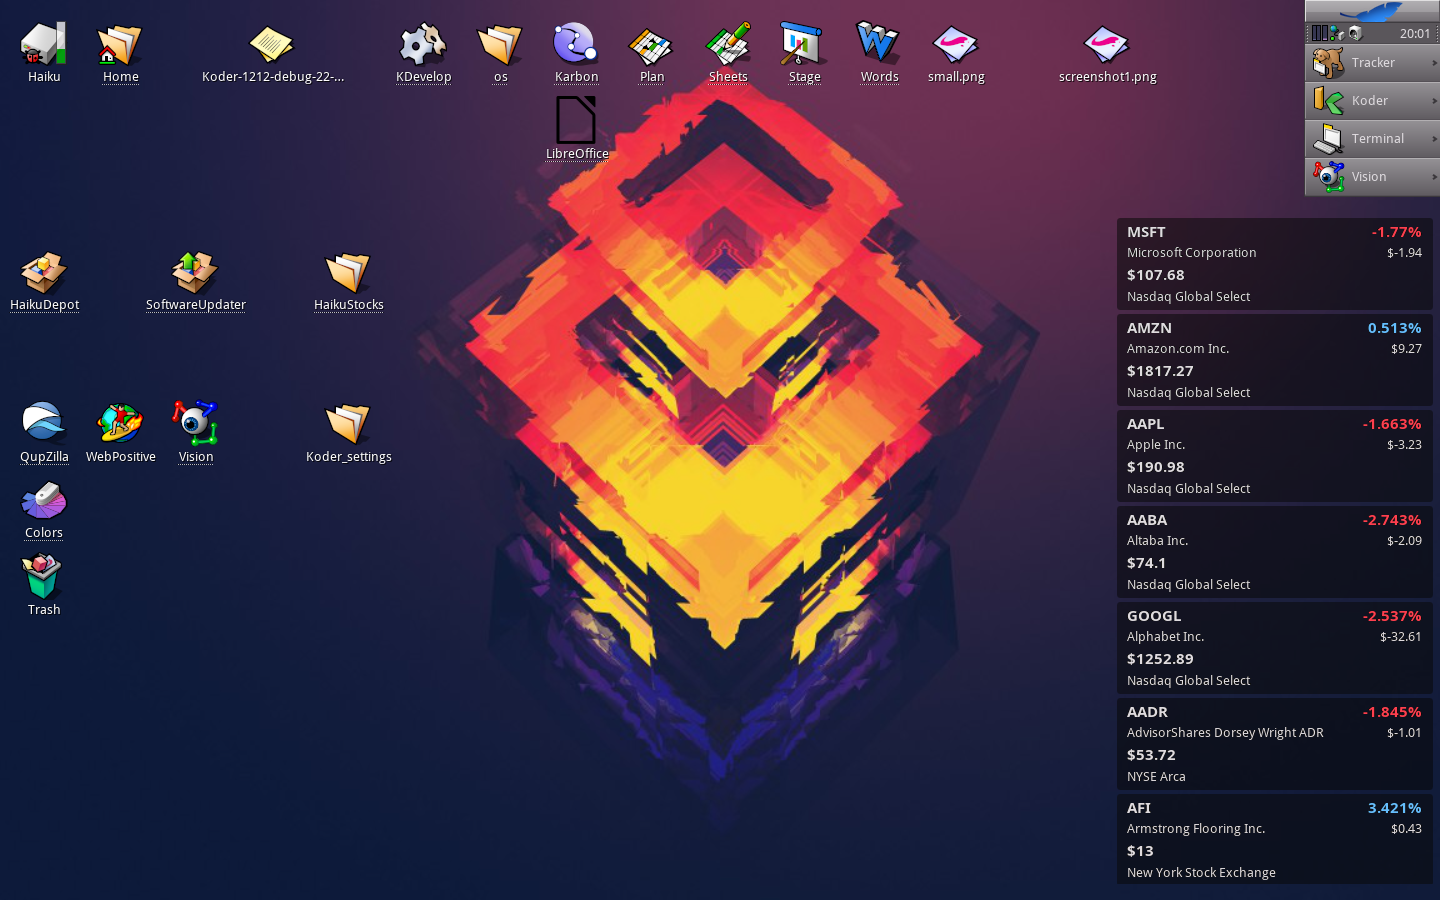
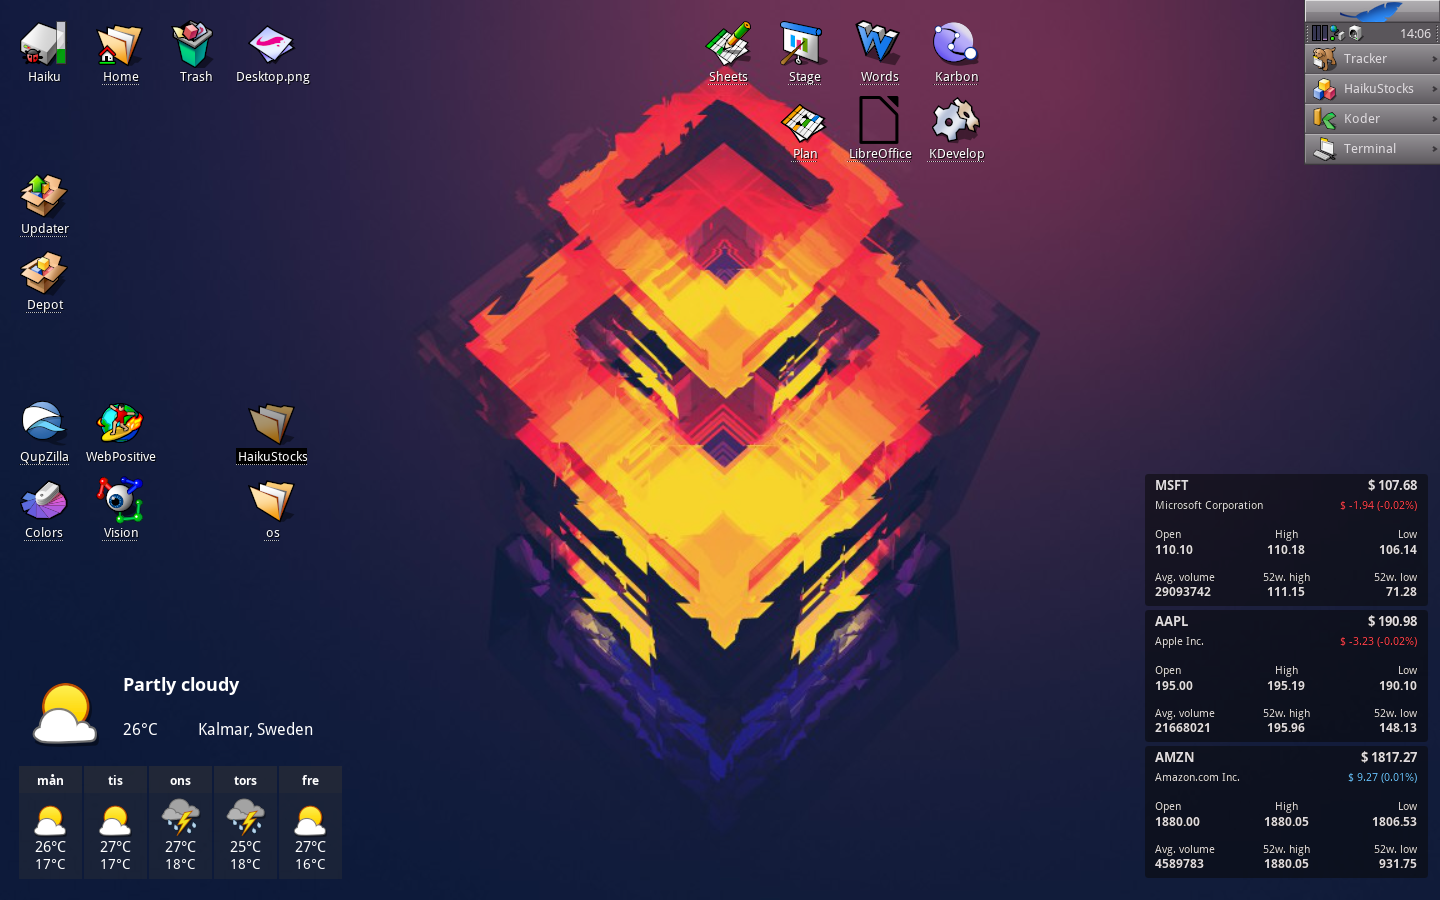
Updated Large item and added new screenshot

diff --git a/Source/ListItems/QuoteListItem.cpp b/Source/ListItems/QuoteListItem.cpp
@@ -87,11 +87,14 @@ QuoteListItem::DrawChangeDollar(BRect frame, alignment align) {
 	BFont font(be_plain_font);
 	font.SetSize(13);
 
-	QuoteFormatter formatter(fQuote);
+	std::ostringstream change;
+	change << "$ " << fQuote->change;
+	
+	const char *str = change.str().c_str();
 	
 	DrawItemSettings settings = { frame, &font };
 	settings.align = align;
-	fDrawer->DrawString(formatter.LatestPrice(), settings);
+	fDrawer->DrawString(str, settings);
 }
 
 void
@@ -205,32 +208,31 @@ void
 QuoteListItem::DrawLargeItem( BRect frame) {
 	
 	QuoteFormatter formatter(fQuote);
-
-	BFont font(be_bold_font);
-	font.SetSize(16);
-	
 	BRect rect = frame.InsetBySelf(0,2);
 	rect.bottom = frame.top + frame.Height() / 7.0;
-
-	DrawSymbol(rect, B_ALIGN_CENTER);
-	rect.OffsetBySelf(0, rect.Height());
 	
-	DrawCompanyName(rect, B_ALIGN_CENTER);
-	rect.OffsetBySelf(0, rect.Height());
-	
-	DrawItemSettings settings = { rect, &font, NULL, B_ALIGN_CENTER };
+	BFont font(be_bold_font);
+	font.SetSize(13);
+		
+	//Row 1
+	DrawItemSettings settings = { rect, &font, NULL, B_ALIGN_LEFT };
+	DrawText(fQuote->symbol.String(), settings);
+	settings.align = B_ALIGN_RIGHT;
 	DrawText(formatter.LatestPrice(), settings);
 	rect.OffsetBySelf(0, fDrawer->Height(settings));
+	
+	//Row 2
+	font = be_plain_font;
+	font.SetSize(11);
+	settings = { rect, &font, NULL, B_ALIGN_LEFT };
+	DrawText(fQuote->companyName.String(), settings);
 
 	rgb_color changeColor = formatter.ChangeColor();
-	
-	font.SetSize(12);
-	settings = { frame, &font, &changeColor, B_ALIGN_CENTER };
+	settings = { rect, &font, &changeColor, B_ALIGN_RIGHT };
 	DrawText(formatter.ChangeString(), settings);
-
-	rect.OffsetBySelf(0, fDrawer->Height(settings) + 10 );
-
-	font.SetSize(10);	
+	rect.OffsetBySelf(0, fDrawer->Height(settings) * 2);
+	
+	//Row 3
 	settings = { rect, &font, NULL, B_ALIGN_LEFT };
 	
 	DrawText("Open", settings);
@@ -241,17 +243,47 @@ QuoteListItem::DrawLargeItem( BRect frame) {
 	settings.align = B_ALIGN_RIGHT;
 	DrawText("Low", settings);
 	
-	rect.OffsetBy(0, fDrawer->Height(settings));
-	font.SetSize(10.0);
-	
+	rect.OffsetBy(0, fDrawer->Height(settings));	
+	font = be_bold_font;
+	font.SetSize(12);
+
 	settings = { rect, &font, NULL };	
-	DrawText("106.54", settings);
+	DrawText(formatter.ToString(fQuote->open), settings);
 
 	settings.align = B_ALIGN_CENTER;
-	DrawText("108.5", settings);
+	DrawText(formatter.ToString(fQuote->high), settings);
 	
 	settings.align = B_ALIGN_RIGHT;
-	DrawText("103.1", settings);
+	DrawText(formatter.ToString(fQuote->low), settings);
+	
+	rect.OffsetBySelf(0, fDrawer->Height(settings) * 1.5);
+	
+	//row4
+	font = be_plain_font;
+	font.SetSize(11);
+	settings = { rect, &font, NULL, B_ALIGN_LEFT };
+	
+	DrawText("Avg. volume", settings);
+	
+	settings.align = B_ALIGN_CENTER;	
+	DrawText("52w. high", settings);
+	
+	settings.align = B_ALIGN_RIGHT;
+	DrawText("52w. low", settings);
+	
+	rect.OffsetBy(0, fDrawer->Height(settings));	
+
+	font = be_bold_font;
+	font.SetSize(12);
+
+	settings = { rect, &font, NULL };	
+	DrawText(formatter.ToString(int32(fQuote->avgVolume)), settings);
+
+	settings.align = B_ALIGN_CENTER;
+	DrawText(formatter.ToString(fQuote->week52High), settings);
+	
+	settings.align = B_ALIGN_RIGHT;
+	DrawText(formatter.ToString(fQuote->week52Low), settings);
 }
 
 void

diff --git a/Source/Utils/QuoteFormatter.cpp b/Source/Utils/QuoteFormatter.cpp
@@ -28,6 +28,27 @@ QuoteFormatter::ChangeColor() {
 }
 
 const char *
+QuoteFormatter::ToString(double value) const {
+	BString str;
+	str << value;
+	return str.String();
+}
+
+const char *
+QuoteFormatter::ToString(float value) const {
+	BString str;
+	str << value;
+	return str.String();
+}
+
+const char *
+QuoteFormatter::ToString(int32 value) const {
+	BString str;
+	str << value;
+	return str.String();
+}
+
+const char *
 QuoteFormatter::LatestPrice() const {
 	BString str;
 	str << "$ " << fQuote->latestPrice;

diff --git a/Source/Models/Quote.cpp b/Source/Models/Quote.cpp
@@ -23,8 +23,8 @@ Quote::Quote(BMessage message) {
 	message.FindDouble("open", &open);
 	message.FindDouble("close", &close);
 
-	message.FindInt32("iexVolume", &volume);
-	message.FindInt32("avgTotalVolume", &avgVolume);	
+	message.FindDouble("iexVolume", &volume);
+	message.FindDouble("avgTotalVolume", &avgVolume);	
 	
 	message.FindDouble("latestPrice", &latestPrice);
 	message.FindDouble("week52High", &week52High);

diff --git a/Source/Utils/QuoteFormatter.h b/Source/Utils/QuoteFormatter.h
@@ -15,6 +15,11 @@ public:
 	~QuoteFormatter();
 	
 	rgb_color ChangeColor();
+
+	const char *ToString(float value) const;
+	const char *ToString(int32 value) const;
+	const char *ToString(double value) const;
+	
 	
 	const char *LatestPrice() const;
 	const char *ChangeString() const; 

diff --git a/Source/Utils/ListItemDrawer.cpp b/Source/Utils/ListItemDrawer.cpp
@@ -61,7 +61,7 @@ float ListItemDrawer::Height(DrawItemSettings settings) {
 	
 	font_height fh;
 	settings.font->GetHeight(&fh);
-	return fh.ascent + fh.descent + fh.leading;
+	return fh.ascent + fh.descent + fh.leading + 2.0;
 }
 
 void 

diff --git a/Source/Models/Quote.h b/Source/Models/Quote.h
@@ -34,8 +34,8 @@ public:
 	double week52High;
 	double week52Low;
 	
-	int32 volume;
-	int32 avgVolume;
+	double volume;
+	double avgVolume;
 	
 	void PrintToStream();
 		
